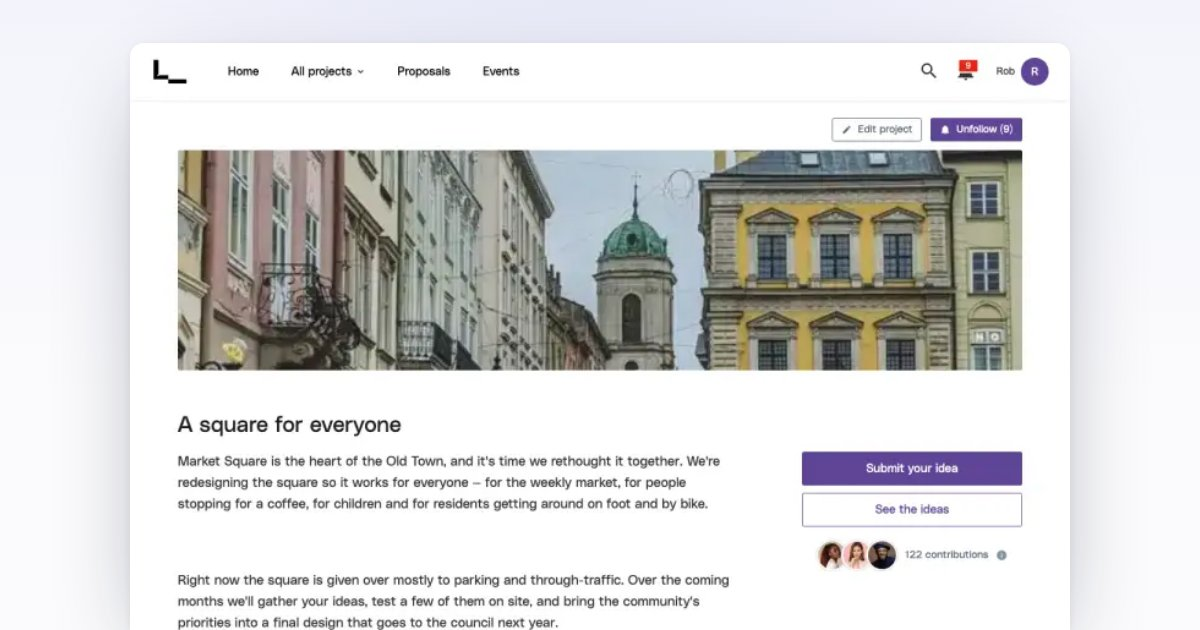
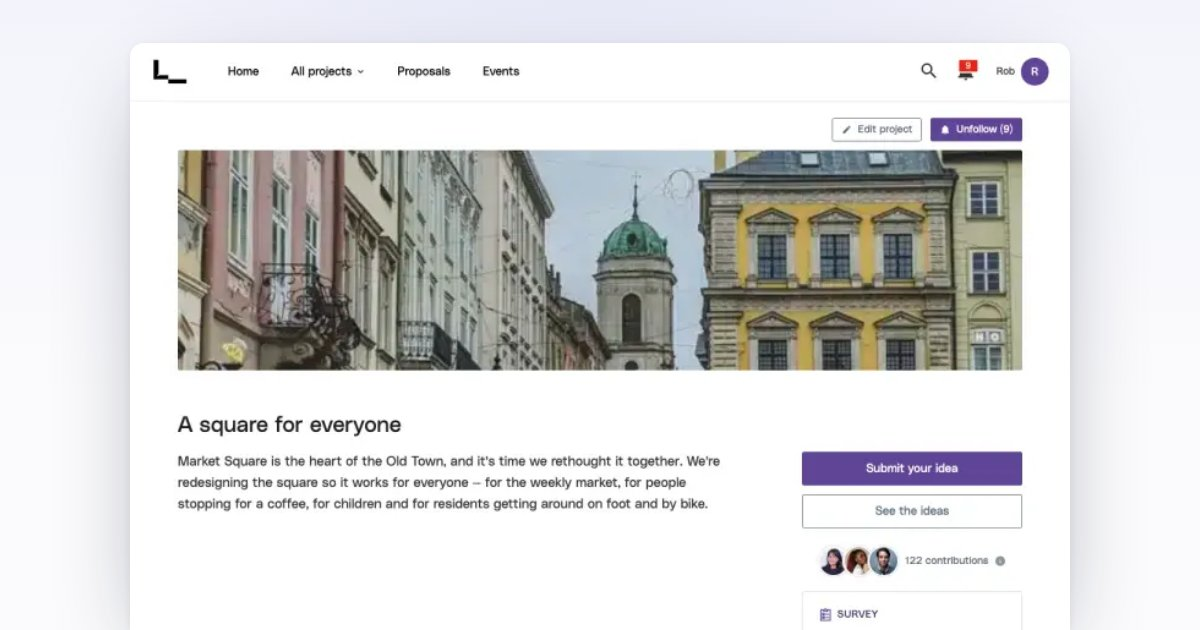
Promote Participation Box + Extra Survey to canonical components
Two parallel-participation widgets that previously lived only inside the
content-builder prototypes are now real .gv-* components, shared across pages:

- .gv-pbox (Participation Box): full-width method buttons (current = filled
  .gv-btn.primary, others = neutral .gv-btn.secondary-outlined) + an
  always-bottom participant row, with empty / hide states.
- .gv-extra-survey (Extra Survey CTA): button or legible card form. Its button
  pair is now the SAME as the participation box (primary + secondary-outlined),
  not the old tenant primary-outlined — so the two CTAs sit together cleanly.
  The card carries no "2 min" duration chip (not a real-product field).

Adds CSS to govocal-ui.css, demo folders components/{participation-box,
extra-survey}/, and registers both in manifest.md / components.md / build.js
(npm run index + lint pass). pages/project-page now renders .gv-pbox and an
.gv-extra-survey card below it.

Changed region(s): [[0.1233, 0.9048, 0.6167, 1.0], [0.6783, 0.754, 0.8633, 0.9349], [0.6783, 0.9651, 0.74, 0.9952]]

diff --git a/components/participation-box/index.html b/components/participation-box/index.html
@@ -1,0 +1,79 @@
+<!doctype html>
+<html lang="en">
+<head>
+  <meta charset="utf-8" />
+  <meta name="viewport" content="width=device-width, initial-scale=1" />
+  <meta name="robots" content="noindex, nofollow" />
+  <title>Participation box — GoVocal component</title>
+  <link rel="stylesheet" href="../../skills/govocal-ui/govocal-tokens.css" />
+  <link rel="stylesheet" href="../../skills/govocal-ui/govocal-primitives.css" />
+  <link rel="stylesheet" href="../../skills/govocal-ui/govocal-ui.css" />
+  <style>
+    /* Themed by govocal-themes.js (default GoVocal; pick a city bottom-right, or ?theme=2 for Stadt Wien). */
+    body { margin: 0; background: var(--gv-background); font-family: var(--gv-font-family); }
+    .demo { max-width: 760px; margin: 0 auto; padding: 28px 20px 80px; }
+    .demo h1 { font-size: 22px; margin: 0 0 4px; color: var(--gv-text-primary); }
+    .demo p.sub { margin: 0 0 22px; color: var(--gv-text-secondary); font-size: 14px; }
+    .eyebrow { font-size: 12px; text-transform: uppercase; letter-spacing: .06em; color: var(--gv-text-secondary); font-weight: 700; margin: 26px 0 10px; }
+    .stage { display: grid; grid-template-columns: repeat(auto-fit, minmax(230px, 1fr)); gap: 22px; }
+    .card { background: #fff; border: 1px solid var(--gv-grey-300); border-radius: var(--gv-radius); padding: 22px; box-shadow: var(--gv-shadow); }
+    .card h3 { font-size: 13px; margin: 0 0 14px; color: var(--gv-text-secondary); font-weight: 600; }
+    .notes { margin-top: 26px; font-size: 14px; color: var(--gv-grey-800); line-height: 1.6; }
+    .notes code { background: var(--gv-grey-100); padding: 1px 5px; border-radius: 4px; font-size: 13px; }
+  </style>
+</head>
+<body data-gv-theme-picker="off" class="gv-root" data-gv-cookies="off">
+  <div class="demo">
+    <h1>Participation box</h1>
+    <p class="sub">The resident-facing project CTA block. It aggregates the project's active participation methods into a stack of full-width buttons, then an always-bottom participant row. The same component is mirrored in the back-office Content Builder ("Participation Box" widget) and on the project page.</p>
+
+    <p class="eyebrow">States</p>
+    <div class="stage">
+      <div class="card">
+        <h3>One method + extra</h3>
+        <!-- ===== COMPONENT (copy from here) ===== -->
+        <div class="gv-pbox">
+          <div class="gv-pbox__actions">
+            <a class="gv-btn primary full" href="#">View 82 proposals</a>
+            <a class="gv-btn secondary-outlined full" href="#">Ask the budget team anything</a>
+          </div>
+          <div class="gv-participants gv-pbox__people">
+            <span class="gv-avatars on-light" aria-hidden="true"><span class="av"></span><span class="av"></span><span class="av"></span></span>
+            <span class="gv-pcount">+19 participants</span>
+            <span class="gv-icon gv-pinfo" data-gv-icon="info-solid" aria-hidden="true" title="Real-time participant count."></span>
+          </div>
+        </div>
+        <!-- ===== /COMPONENT ===== -->
+      </div>
+
+      <div class="card">
+        <h3>Three+ methods → collapsed</h3>
+        <div class="gv-pbox">
+          <div class="gv-pbox__actions">
+            <a class="gv-btn primary full" href="#">Participate · 3 ways</a>
+          </div>
+          <div class="gv-participants gv-pbox__people">
+            <span class="gv-avatars on-light" aria-hidden="true"><span class="av"></span><span class="av"></span><span class="av"></span></span>
+            <span class="gv-pcount">+19 participants</span>
+          </div>
+        </div>
+      </div>
+
+      <div class="card">
+        <h3>No active methods</h3>
+        <div class="gv-pbox">
+          <div class="gv-pbox__empty">No active methods</div>
+        </div>
+      </div>
+    </div>
+
+    <div class="notes">
+      <p><strong>Buttons:</strong> the current-phase method is the filled <code>.gv-btn.primary</code>; parallel / extra methods are the neutral <code>.gv-btn.secondary-outlined</code> — the same pair the <a href="../extra-survey/">extra-survey CTA</a> uses, so a project page reads consistently. Three or more visible methods collapse into one "Participate" primary.</p>
+      <p><strong>Toggles:</strong> <code>.gv-pbox--nobtns</code> hides the action stack; <code>.gv-pbox--nopeople</code> hides the participant row.</p>
+    </div>
+  </div>
+  <script src="../../skills/govocal-ui/govocal-themes.js" defer></script>
+  <script src="../../skills/govocal-ui/govocal-icons.js" defer></script>
+  <script src="../../skills/govocal-ui/govocal-avatars.js" defer></script>
+</body>
+</html>

diff --git a/components/extra-survey/index.html b/components/extra-survey/index.html
@@ -1,0 +1,69 @@
+<!doctype html>
+<html lang="en">
+<head>
+  <meta charset="utf-8" />
+  <meta name="viewport" content="width=device-width, initial-scale=1" />
+  <meta name="robots" content="noindex, nofollow" />
+  <title>Extra survey CTA — GoVocal component</title>
+  <link rel="stylesheet" href="../../skills/govocal-ui/govocal-tokens.css" />
+  <link rel="stylesheet" href="../../skills/govocal-ui/govocal-primitives.css" />
+  <link rel="stylesheet" href="../../skills/govocal-ui/govocal-ui.css" />
+  <style>
+    /* Themed by govocal-themes.js (default GoVocal; pick a city bottom-right, or ?theme=2 for Stadt Wien). */
+    body { margin: 0; background: var(--gv-background); font-family: var(--gv-font-family); }
+    .demo { max-width: 760px; margin: 0 auto; padding: 28px 20px 80px; }
+    .demo h1 { font-size: 22px; margin: 0 0 4px; color: var(--gv-text-primary); }
+    .demo p.sub { margin: 0 0 22px; color: var(--gv-text-secondary); font-size: 14px; }
+    .eyebrow { font-size: 12px; text-transform: uppercase; letter-spacing: .06em; color: var(--gv-text-secondary); font-weight: 700; margin: 26px 0 10px; }
+    .row { display: grid; grid-template-columns: repeat(auto-fit, minmax(230px, 1fr)); gap: 22px; align-items: start; }
+    .label { font-size: 13px; margin: 0 0 10px; color: var(--gv-text-secondary); font-weight: 600; }
+    .notes { margin-top: 26px; font-size: 14px; color: var(--gv-grey-800); line-height: 1.6; }
+    .notes code { background: var(--gv-grey-100); padding: 1px 5px; border-radius: 4px; font-size: 13px; }
+  </style>
+</head>
+<body data-gv-theme-picker="off" class="gv-root" data-gv-cookies="off">
+  <div class="demo">
+    <h1>Extra survey CTA</h1>
+    <p class="sub">A survey linked into a project page or the Content Builder, separate from the phase's own method. It renders either as a button or as a card. The button uses the same primary / secondary-outlined pair as the <a href="../participation-box/">participation box</a>.</p>
+
+    <p class="eyebrow">Card</p>
+    <div style="max-width: 420px;">
+      <!-- ===== COMPONENT — card (copy from here) ===== -->
+      <div class="gv-extra-survey gv-extra-survey--card">
+        <span class="gv-extra-survey__tag"><span class="gv-icon" data-gv-icon="survey" aria-hidden="true"></span> Survey</span>
+        <h3 class="gv-extra-survey__title">Mobility check-in</h3>
+        <p class="gv-extra-survey__desc">Tell us how you move around the city this month — your answers feed the mobility plan.</p>
+        <a class="gv-btn primary full" href="#">Take the survey</a>
+      </div>
+      <!-- ===== /COMPONENT ===== -->
+    </div>
+
+    <p class="eyebrow">Button</p>
+    <div class="row">
+      <div>
+        <p class="label">Primary</p>
+        <div class="gv-extra-survey"><a class="gv-btn primary full" href="#">Take the survey</a></div>
+      </div>
+      <div>
+        <p class="label">Secondary</p>
+        <div class="gv-extra-survey"><a class="gv-btn secondary-outlined full" href="#">Take the survey</a></div>
+      </div>
+    </div>
+
+    <p class="eyebrow">Empty (back-office)</p>
+    <div style="max-width: 420px;">
+      <div class="gv-extra-survey__empty">
+        <div class="gv-extra-survey__empty-t">📣 Survey</div>
+        <div class="gv-extra-survey__empty-s">Select a survey to link in the panel on the right.</div>
+      </div>
+    </div>
+
+    <div class="notes">
+      <p><strong>Buttons:</strong> <code>.gv-btn.primary</code> (filled tenant) or <code>.gv-btn.secondary-outlined</code> (neutral outline) — the same pair as the participation box, so the two CTAs sit together on a page without clashing.</p>
+      <p><strong>Card:</strong> sized for legibility by default — big type, one clear action, the icon always paired with a word. The SURVEY tag is tenant-tinted with an AA-safe darkened ink.</p>
+    </div>
+  </div>
+  <script src="../../skills/govocal-ui/govocal-themes.js" defer></script>
+  <script src="../../skills/govocal-ui/govocal-icons.js" defer></script>
+</body>
+</html>

diff --git a/build.js b/build.js
@@ -263,7 +263,9 @@ const COMPONENT_BLURBS = {
   "idea-feed": { name: "Idea feed", classes: ".gv-feed / .gv-feedfilter / .gv-viewseg / .gv-idealist", desc: "The ideation feed layout: an idea count and List/Map toggle over a two-column grid pairing the idea list with a sort/status/topic sidebar." },
   "issue-canvas": { name: "Issue canvas", classes: ".gv-issuecanvas (.is-detail) / __pile / __add / .gv-issuefeed", desc: "The dotted-grid Perspectives canvas that floats sticky-note ideas in a masonry pile, with a floating \"Add an idea\" button and a raised detail state." },
   "login-modal": { name: "Modal + login", classes: ".gv-modal-overlay / .gv-modal / __header / __body / .gv-or", desc: "Reusable dialog abstraction (overlay → card → titled header, close, scrollable body), shown via the real \"before you participate\" auth flow." },
+  "extra-survey": { name: "Extra survey CTA", classes: ".gv-extra-survey (--card) / __tag / __title / __desc / .gv-btn", desc: "A survey linked into a project page or Content Builder, rendered as a button or a legible card; uses the same primary / secondary-outlined button pair as the participation box." },
   "participation-bar": { name: "Participation bar", classes: ".gv-partbar / __inner / __status / .gv-btn.on-color", desc: "The sticky project-page action footer: participation status on the left and a primary on-color CTA on the right that pins as residents scroll." },
+  "participation-box": { name: "Participation box", classes: ".gv-pbox / __actions / __people / __empty / .gv-btn.primary + .secondary-outlined", desc: "The resident-facing project CTA block: the project's active participation methods stacked as full-width buttons (current = primary, others = secondary-outlined), then an always-bottom participant row. Mirrored in the Content Builder." },
   "phase-timeline": { name: "Phase timeline", classes: ".gv-phases__bar / .gv-stepper / .gv-pstep / .gv-phasepanel", desc: "The project phase nav: a connected row of interlocking chevron ribbon segments with current (mint+dot) and viewing (slate) states, plus a content panel." },
   poll: { name: "Poll method body", classes: ".gv-poll / __question / __qhead / __options / __send", desc: "The per-method panel for a poll phase: a stack of question cards holding single/multi-choice options, a full-width Send, and the sticky participation band." },
   "project-card": { name: "Project card + rail", classes: ".gv-rail / .gv-pcard (.boxed/.horizontal) / .gv-pgrid", desc: "The participation-project card (thumb, title, status meta, CTA) in two layouts: the horizontal scroll rail and the bordered boxed grid card." },
@@ -318,7 +320,9 @@ const COMPONENT_META = {
   "idea-feed": { surface: "fo", category: "content", status: "canonical", tags: ["ideation", "feed"] },
   "issue-canvas": { surface: "fo", category: "content", status: "canonical", tags: ["perspectives", "canvas"] },
   "login-modal": { surface: "fo", category: "modals", status: "canonical", tags: ["auth", "dialog"] },
+  "extra-survey": { surface: "cross", category: "survey", status: "canonical", tags: ["parallel-participation", "cta"] },
   "participation-bar": { surface: "fo", category: "misc", status: "canonical", tags: ["sticky", "cta"] },
+  "participation-box": { surface: "cross", category: "misc", status: "canonical", tags: ["parallel-participation", "cta"] },
   "phase-timeline": { surface: "fo", category: "navigation", status: "canonical", tags: ["phases", "stepper"] },
   poll: { surface: "fo", category: "survey", status: "canonical", tags: ["wietsedemo", "method"] },
   "project-card": { surface: "fo", category: "cards", status: "canonical", tags: ["rail", "boxed"] },

diff --git a/pages/project-page/index.html b/pages/project-page/index.html
@@ -45,9 +45,11 @@
     .pp-head { padding: 36px 0 44px; }
     .pp-head h1 { margin: 20px 0 16px; }
     .pp-row { display: grid; grid-template-columns: minmax(0,1fr) 300px; gap: 10px 40px; align-items: start; }
-    .pp-cta { display: flex; flex-direction: column; gap: 10px; }
-    .pp-cta .gv-btn { justify-content: center; }
-    /* participant row centered under the CTA stack (Wien project-header pattern) */
+    /* The narrow CTA column stacks the canonical participation box (.gv-pbox) and,
+       below it, an extra-survey card (.gv-extra-survey). .pp-cta carries only the
+       page-local layout: the column gap, grid placement, and the participant row
+       centered under the button stack (Wien project-header pattern). */
+    .pp-cta { display: flex; flex-direction: column; gap: 20px; }
     .pp-cta .gv-participants { display: flex; justify-content: center; }
     .pp-intro { margin: 0; }
     /* Row 2 keeps the same wide/narrow tracks so the lower body text holds the SAME
@@ -212,16 +214,30 @@
           <p>Market Square is the heart of the Old Town, and it's time we rethought it together. We're <strong>redesigning the square so it works for everyone</strong> — for the weekly market, for people stopping for a coffee, for children and for residents getting around on foot and by bike.</p>
         </div>
         <div class="pp-cta">
-          <a class="gv-btn primary" href="#ideas">Submit your idea</a>
-          <a class="gv-btn primary-outlined" href="#ideas">See the ideas</a>
-          <div class="gv-participants" style="margin-top:4px;">
-            <span class="gv-avatars on-light" aria-hidden="true">
-              <span class="av"></span>
-              <span class="av"></span>
-              <span class="av"></span>
-            </span>
-            <span class="gv-pcount">122 contributions</span>
-            <span class="gv-icon gv-pinfo" data-gv-icon="info-solid" aria-hidden="true" title="Real-time contribution count."></span>
+          <!-- Participation box — canonical .gv-pbox (mirrors the Content Builder widget) -->
+          <div class="gv-pbox">
+            <div class="gv-pbox__actions">
+              <a class="gv-btn primary full" href="#ideas">Submit your idea</a>
+              <a class="gv-btn secondary-outlined full" href="#ideas">See the ideas</a>
+            </div>
+            <div class="gv-participants gv-pbox__people" style="margin-top:4px;">
+              <span class="gv-avatars on-light" aria-hidden="true">
+                <span class="av"></span>
+                <span class="av"></span>
+                <span class="av"></span>
+              </span>
+              <span class="gv-pcount">122 contributions</span>
+              <span class="gv-icon gv-pinfo" data-gv-icon="info-solid" aria-hidden="true" title="Real-time contribution count."></span>
+            </div>
+          </div>
+          <!-- Extra survey — canonical .gv-extra-survey card (same component as the
+               Content Builder "Extra surveys" widget). Secondary CTA so it doesn't
+               compete with the primary "Submit your idea" above. -->
+          <div class="gv-extra-survey gv-extra-survey--card">
+            <span class="gv-extra-survey__tag"><span class="gv-icon" data-gv-icon="survey" aria-hidden="true"></span> Survey</span>
+            <h3 class="gv-extra-survey__title">Mobility check-in</h3>
+            <p class="gv-extra-survey__desc">Tell us how you move around the square today — a few quick questions that feed the redesign.</p>
+            <a class="gv-btn secondary-outlined full" href="#">Take the survey</a>
           </div>
         </div>
       </div>

diff --git a/skills/govocal-ui/govocal-ui.css b/skills/govocal-ui/govocal-ui.css
@@ -2738,3 +2738,45 @@ h1.gv-title, .gv-title.h1 { color: var(--gv-text-heading-strong); }
   color: var(--gv-tenant-primary); font-weight: 500;
   font-size: var(--gv-fs-base); line-height: 16.1px; padding: 9px 18px;
 }
+
+/* ── Participation box (components/participation-box/) ────────────────────────
+   The resident-facing project-page CTA block, mirrored 1:1 by the back-office
+   Content Builder "Participation Box" widget. It aggregates the project's active
+   participation methods into a stack of full-width buttons, then an always-bottom
+   participant avatar row. The current-phase method is the filled .gv-btn.primary;
+   parallel / extra methods are the neutral .gv-btn.secondary-outlined. Three or
+   more visible methods collapse into one "Participate" primary button. Pure
+   assembly — composes the canonical .gv-btn + .gv-participants atoms; this block
+   only stacks them and carries the empty / hide states. */
+.gv-pbox { display: flex; flex-direction: column; gap: 16px; }
+.gv-pbox__actions { display: flex; flex-direction: column; gap: 12px; }
+.gv-pbox__actions .gv-btn { width: 100%; justify-content: center; }
+.gv-pbox__people { display: flex; align-items: center; gap: 8px; }
+.gv-pbox__empty { border: 1px dashed var(--gv-grey-400); border-radius: var(--gv-radius);
+  text-align: center; padding: 14px; font-size: var(--gv-fs-s); color: var(--gv-cool-grey-600); }
+.gv-pbox--nobtns .gv-pbox__actions { display: none; }
+.gv-pbox--nopeople .gv-pbox__people { display: none; }
+
+/* ── Extra survey CTA (components/extra-survey/) ──────────────────────────────
+   A survey linked into a project page / Content Builder, separate from the phase
+   method. Renders either as a button (.gv-btn primary | secondary-outlined — the
+   SAME pair the participation box uses) or as a card (--card): a tenant-tinted
+   SURVEY tag, the survey name, a short plain-language description and the CTA. The
+   card is sized for legibility (accessible by default) — big type, one clear
+   action, icon always paired with a word. Tenant-themed via --gv-tenant-primary. */
+.gv-extra-survey { --gv-es-tint: color-mix(in srgb, var(--gv-tenant-primary) 9%, #fff);
+  /* AA-safe darkened tenant ink for text on the light tint (≥6:1 across city themes) */
+  --gv-es-ink: color-mix(in srgb, var(--gv-tenant-primary) 55%, #111); }
+.gv-extra-survey .gv-btn { width: 100%; }
+.gv-extra-survey--card { border: 1px solid var(--gv-grey-300); border-radius: var(--gv-radius);
+  padding: 22px; background: #fff; box-shadow: var(--gv-shadow); }
+.gv-extra-survey__tag { display: inline-flex; align-items: center; gap: 7px; font-size: 14px;
+  font-weight: 700; text-transform: uppercase; letter-spacing: .04em; color: var(--gv-es-ink); }
+.gv-extra-survey__tag .gv-icon { width: 18px; height: 18px; color: var(--gv-tenant-primary); }
+.gv-extra-survey__title { font-size: 23px; font-weight: 700; color: var(--gv-text-primary);
+  line-height: 1.25; margin: 12px 0 8px; }
+.gv-extra-survey__desc { font-size: 16px; color: var(--gv-text-primary); line-height: 1.6; margin: 0 0 18px; }
+.gv-extra-survey__empty { border: 2px dashed var(--gv-grey-400); border-radius: var(--gv-radius);
+  padding: 22px; text-align: center; background: var(--gv-grey-50); }
+.gv-extra-survey__empty-t { font-size: var(--gv-fs-s); font-weight: 600; color: var(--gv-text-secondary); }
+.gv-extra-survey__empty-s { font-size: var(--gv-fs-13); color: var(--gv-cool-grey-600); margin-top: 6px; }

diff --git a/LIBRARY.md b/LIBRARY.md
@@ -80,6 +80,7 @@ Class-level detail + “how to reuse”: `components/manifest.md`.
 | **Cta Banner** | `/components/cta-banner/` | `components/cta-banner/` | A thin, full-bleed coloured strip carrying one centered call-to-action button, mounted as a Content-Builder block. Source-grounded on St Louis ( stlouis.govoca… |
 | **Event Card** | `/components/event-card/` | `components/event-card/` | Event card with a two-tone date chip pinned over the media, clock / location / link / registrant rows and a Register CTA, laid out in the events grid with its… |
 | **Event Card Bordered** | `/components/event-card-bordered/` | `components/event-card-bordered/` | The shared EventsWidget treatment (Copenhagen / Linz / Falkirk): each event in a bordered white card (1px #CCC, 6px radius) with a 3-tier stacked date chip (gr… |
+| **Extra Survey** | `/components/extra-survey/` | `components/extra-survey/` | A survey linked into a project page or the Content Builder, separate from the phase's own method. It renders either as a button or as a card. The button uses t… |
 | **Fo Linz Monitorband** | `/components/fo-linz-monitorband/` | `components/fo-linz-monitorband/` | Source-grounded on Linz partizipation.linz.at (capture fo-linz-monitorband , tenant-primary #604596 ). The community-monitor band uses the SAME formula as wiet… |
 | **Folder Card** | `/components/folder-card/` | `components/folder-card/` | The projects-list folder card — a white card carrying a green project-count line, the folder title, a description preview, and a stack of child-project preview… |
 | **Footer** | `/components/footer/` | `components/footer/` | Source-grounded on GoVocal’s real <footer id="hook-footer"> : a secondary-nav row of legal links — one is the Cookie-Einstellungen button — plus the “Ermöglich… |
@@ -93,6 +94,7 @@ Class-level detail + “how to reuse”: `components/manifest.md`.
 | **Issue Canvas** | `/components/issue-canvas/` | `components/issue-canvas/` | Dotted-grid Perspectives canvas that floats pastel sticky-note ideas in a masonry pile, with a floating "Add an idea" button. |
 | **Login Modal** | `/components/login-modal/` | `components/login-modal/` | The reusable modal abstraction (overlay → dialog card → title header + top-right close + scrollable body), shown via GoVocal’s real “Before you participate” au… |
 | **Participation Bar** | `/components/participation-bar/` | `components/participation-bar/` | The sticky project-page action bar — a participation status on the left and a primary on-color CTA on the right that pins as residents scroll the phase. |
+| **Participation Box** | `/components/participation-box/` | `components/participation-box/` | The resident-facing project CTA block. It aggregates the project's active participation methods into a stack of full-width buttons, then an always-bottom parti… |
 | **Phase Timeline** | `/components/phase-timeline/` | `components/phase-timeline/` | Phase timeline — GoVocal component |
 | **Poll** | `/components/poll/` | `components/poll/` | Poll method body — GoVocal component |
 | **Project Card** | `/components/project-card/` | `components/project-card/` | The participation-project card (thumb, title, meta with status icon, CTA) and the horizontal scroll rail. The whole card is clickable via a stretched title lin… |
@@ -158,6 +160,7 @@ and reuse patterns. Prototypes are free to diverge from the library.
 | **City Explorations** | Parallel Participation | `parallel-participation/prototypes/city-explorations/` | City explorations — Project front-office views |
 | **Parallel Editor Builder V1** | Parallel Participation | `parallel-participation/prototypes/parallel-editor-builder-v1/` | Parallel Participation — Project editor + content builder (v1) |
 | **Parallel Editor Builder V2** | Parallel Participation | `parallel-participation/prototypes/parallel-editor-builder-v2/` | Parallel Participation — Project editor + content builder (v2) |
+| **Parallel Editor Builder V3** | Parallel Participation | `parallel-participation/prototypes/parallel-editor-builder-v3/` | Parallel Participation — Project editor + content builder (v3) |
 | **Access Rights Explorations** | Sms Verification | `sms-verification/prototypes/access-rights-explorations/` | Tap any underlined word. These rules cover everything — then add exceptions below if you need them. |
 | **Access Rights Explorations V2** | Sms Verification | `sms-verification/prototypes/access-rights-explorations-v2/` | Access Rights Explorations v2 — five product-grounded takes |
 | **Access Rights Simple** | Sms Verification | `sms-verification/prototypes/access-rights-simple/` | Phase access, made simple — GoVocal (prototype) |

diff --git a/components/manifest.md b/components/manifest.md
@@ -77,6 +77,8 @@ Edit those; `npm run lint` enforces that no demo copies or redefines them. (Only
 | **Volunteer cause** | `components/volunteer-cause/` | `.gv-cause`/`__media`/`__img`/`__badge`/`__body`/`__title`/`__count`/`__desc`/`__cta` · `.gv-btn.volunteer`(`.is-in`) | **The volunteering opportunity card** — photo + participant badge, title, count, description, and the green dark-text `.gv-btn.volunteer` that toggles to a withdrawn `.is-in` state. Surfaced from `pages/project-volunteering/`; verified via `fo-project/volunteer-{desc,btn}`. |
 | **Survey band** | `components/survey-band/` | `.gv-surveyband`/`__inner`/`__status`/`__dot`/`__cta` · reuses `.gv-btn.on-color` | **The "Take the survey" CTA strip** on a project-page survey phase — a live-dot status on the left, an on-color CTA on the right (distinct from the `survey-fields` field kit). Surfaced from `pages/project-survey/`; verified via `fo-project/survey-band*`. |
 | **Participation bar** | `components/participation-bar/` | `.gv-partbar`/`__inner`/`__status` · reuses `.gv-btn.on-color` | **The sticky project-page action footer** — participation status on the left, a primary on-color CTA on the right that pins as residents scroll the phase. Surfaced from `pages/project-page/` (also reused by poll). Pure assembly. |
+| **Participation box** | `components/participation-box/` | `.gv-pbox`/`__actions`/`__people`/`__empty` (`--nobtns`/`--nopeople`) · composes `.gv-btn.primary` + `.gv-btn.secondary-outlined` + `.gv-participants` | **The resident-facing project CTA block** — the project's active participation methods stacked as full-width buttons (current-phase method = filled `.gv-btn.primary`, parallel/extra = neutral `.gv-btn.secondary-outlined`), 3+ collapsing into one "Participate" primary, then an always-bottom participant avatar row. A **parallel-participation** invention (no real-product capture); mirrored 1:1 by the Content Builder "Participation Box" widget and used on `pages/project-page/`. Pure assembly. |
+| **Extra survey CTA** | `components/extra-survey/` | `.gv-extra-survey`(`--card`)/`__tag`/`__title`/`__desc`/`__empty` · composes `.gv-btn.primary` + `.gv-btn.secondary-outlined` | **A survey linked into a project page / Content Builder**, separate from the phase method — rendered either as a button or as a legible card (tenant-tinted SURVEY tag, name, plain-language description, CTA). Uses the **same** button pair as the participation box so the two CTAs sit together cleanly. A **parallel-participation** invention; mirrored by the Content Builder "Extra surveys" widget and used on `pages/project-page/`. Pure assembly. |
 | **Avatar overflow-count bubble** | `components/avatar-overflow-bubble/` | `.gv-bubbles .count.bubble` (`.sm`/`.xs` scale) · reuses `.gv-bubbles`/`.av`/`.count`/`__label` | **The participant-overflow count rendered AS a solid cool-grey circle capping the avatar overlap stack** (vs the bare `.count` adjacent text). Source-grounded on Falkirk (`participateplus.falkirk.gov.uk`, capture `fo-falkirk-bubbles-overflow`, probed `div.uItlk`), verified via `fo-falkirk-bubbles-overflow/count-circle`. The circle = `--gv-cool-grey-600` bg, **38px**, **2px** white border, radius **50%** (the base `.count` already paints this); the `.bubble` modifier normalises the abbreviated white text to the measured **11px/400** (base is 11px/700). Holds abbreviated (`19.8k`) or full (`7443`) counts. **Cross-tenant SYSTEM** — the same stack-cap treatment on Falkirk/Linz/St&nbsp;Louis/Copenhagen (one product, re-skinned); SKIN re-themes per `?theme=`. Net-new = just the `.count.bubble` modifier (`govocal-primitives.css`) — base `.gv-bubbles`/`.av`/`.count` untouched. Pure assembly. |
 | **Sticky note** | `components/sticky-note/` | `.gv-sticky`(`.is-raised` · `.lavender`/`.mint`/`.pink`/`.grey`, inline `--gv-sticky-bg`)/`__author`/`__authorname`/`__emoji`/`__title`/`__excerpt`/`__react`/`__reactbtn` | **The pastel Perspectives idea note** — 320px/radius-3px card, author chip + emoji + title + excerpt + row-reverse react counts, in resting vs `.is-raised` and four pastel variants. Surfaced from `pages/perspectives-feed/`; verified via `fo-perspectives/{sticky-card,like-button}`. |
 | **Theme card** | `components/theme-card/` | `.gv-themecard`(`.is-active`)/`__emoji`/`__main`/`__head`/`__name`/`__count`/`__desc`/`__bar` (inline `--gv-themecard-swatch`/`--gv-themecard-bar`) | **The ranked Perspectives category card** — emoji swatch + name + response count + a mini share bar; the first shows the active selection. Surfaced from `pages/perspectives-feed/`. Pure assembly; re-skins per `?theme=`. |

diff --git a/skills/govocal-ui/components.md b/skills/govocal-ui/components.md
@@ -1530,6 +1530,54 @@ The `.gv-btn.volunteer` green is the **tenant primary** (re-themes), and the dar
 </div></div>
 ```
 - **Common Ground (Polis)** renders an external `pol.is` iframe inside a white method
+
+## Participation box — `.gv-pbox` (`components/participation-box/`)
+
+The resident-facing project CTA block (a **parallel-participation** invention, mirrored
+1:1 by the Content Builder "Participation Box" widget). It stacks the project's active
+participation methods as full-width buttons, then an always-bottom participant row. The
+current-phase method is the filled `.gv-btn.primary`; parallel / extra methods are the
+neutral `.gv-btn.secondary-outlined` (3+ collapse into one "Participate" primary). The
+**extra-survey CTA below uses the SAME button pair** so the two read together on a page.
+Pure assembly — only stacks the canonical `.gv-btn` + `.gv-participants` atoms.
+```html
+<div class="gv-pbox">
+  <div class="gv-pbox__actions">
+    <a class="gv-btn primary full" href="#">View 82 proposals</a>
+    <a class="gv-btn secondary-outlined full" href="#">Ask the budget team anything</a>
+  </div>
+  <div class="gv-participants gv-pbox__people">
+    <span class="gv-avatars on-light" aria-hidden="true"><span class="av"></span><span class="av"></span><span class="av"></span></span>
+    <span class="gv-pcount">+19 participants</span>
+    <span class="gv-icon gv-pinfo" data-gv-icon="info-solid" aria-hidden="true"></span>
+  </div>
+</div>
+```
+- `.gv-pbox--nobtns` hides the action stack; `.gv-pbox--nopeople` hides the participant row;
+  `.gv-pbox__empty` ("No active methods") replaces both when nothing is live.
+
+## Extra survey CTA — `.gv-extra-survey` (`components/extra-survey/`)
+
+A survey linked into a project page / Content Builder, separate from the phase method.
+Renders as a **button** (`.gv-btn.primary` or `.gv-btn.secondary-outlined` — the same pair
+the participation box uses) or as a **card** (`--card`): a tenant-tinted SURVEY tag, the
+name, a plain-language description and the CTA. The card is sized for legibility by default
+(big type, one clear action, icon always paired with a word).
+```html
+<!-- card -->
+<div class="gv-extra-survey gv-extra-survey--card">
+  <span class="gv-extra-survey__tag"><span class="gv-icon" data-gv-icon="survey"></span> Survey</span>
+  <h3 class="gv-extra-survey__title">Mobility check-in</h3>
+  <p class="gv-extra-survey__desc">Tell us how you move around the city this month.</p>
+  <a class="gv-btn primary full" href="#">Take the survey</a>
+</div>
+
+<!-- button -->
+<div class="gv-extra-survey"><a class="gv-btn secondary-outlined full" href="#">Take the survey</a></div>
+```
+- The SURVEY tag tint + ink are derived from `--gv-tenant-primary` (`--gv-es-tint` /
+  `--gv-es-ink`, AA-safe), so it re-themes per city without a fixed brand colour.
+
   panel — GoVocal renders none of the voting UI, so the demo reconstructs it as
   page-local non-`gv-` markup (not grounded).
 
